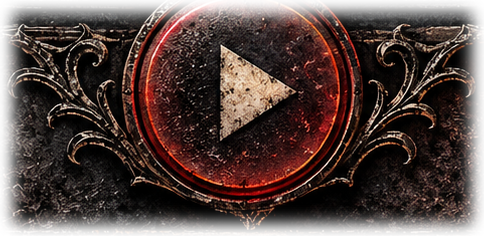
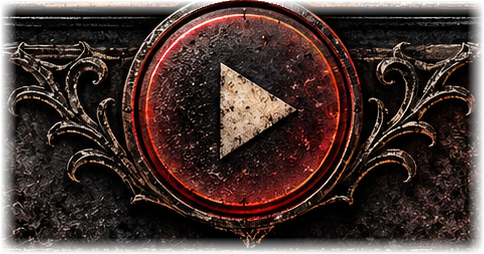
Metronome: all beat lamps visible; play/pause art match
- Beat lamps never scroll: one row up to 8 beats (lamps shrink to fit),
  two rows from 9 to 16 beats. The beat panel grows to 110 px; the
  metronome and side panels are 24 px shorter to make room.
- Play and pause now use the same taller crop of the art, so the top of
  the ring is fully visible on both (the old play art's top edge was
  faded, which looked like a shadow) and the pause bars sit centred.

Claude-Session: https://claude.ai/code/session_019kbSwfzUSfSZGY3kMuzNe5

diff --git a/lib/screens/metronome_screen.dart b/lib/screens/metronome_screen.dart
@@ -50,6 +50,31 @@ class _MetronomeScreenState extends State<MetronomeScreen> with SingleTickerProv
     if (mounted) setState(() {});
   }
 
+  Widget _beatRows(BuildContext context) {
+    final n = m.levels.length;
+    final (perRow, size) = _BeatRowsLayout.of(n);
+    Widget lamp(int i) => Padding(
+          padding: const EdgeInsets.symmetric(horizontal: 3),
+          child: _BeatLamp(
+            level: m.levels[i],
+            now: m.playing && m.beat == i,
+            index: i,
+            size: size,
+            onTap: () => m.cycleBeat(i),
+          ),
+        );
+    final rows = <Widget>[];
+    for (var start = 0; start < n; start += perRow) {
+      rows.add(Row(
+        mainAxisAlignment: MainAxisAlignment.center,
+        children: [for (var i = start; i < math.min(n, start + perRow); i++) lamp(i)],
+      ));
+    }
+    return Column(mainAxisSize: MainAxisSize.min, children: [
+      for (var r = 0; r < rows.length; r++) ...[if (r > 0) const SizedBox(height: 5), rows[r]],
+    ]);
+  }
+
   @override
   Widget build(BuildContext context) {
     final sig = timeSigs[m.sig];
@@ -123,7 +148,7 @@ class _MetronomeScreenState extends State<MetronomeScreen> with SingleTickerProv
         left: 6,
         top: 334,
         width: 96,
-        height: 248,
+        height: 224,
         child: Parchment(
           padding: const EdgeInsets.fromLTRB(0, 14, 0, 6),
           child: Column(children: [
@@ -160,7 +185,10 @@ class _MetronomeScreenState extends State<MetronomeScreen> with SingleTickerProv
         top: 334,
         width: 175,
         height: 250,
-        child: Stack(children: [
+        child: Transform.scale(
+          scale: 224 / 250,
+          alignment: Alignment.topCenter,
+          child: Stack(children: [
           Positioned.fill(child: Image.asset(Img.pyramid, fit: BoxFit.fill)),
           Positioned.fill(
             child: ClipPath(
@@ -187,6 +215,7 @@ class _MetronomeScreenState extends State<MetronomeScreen> with SingleTickerProv
             ),
           ),
         ]),
+        ),
       ),
 
       // Sound + subdivision.
@@ -194,51 +223,38 @@ class _MetronomeScreenState extends State<MetronomeScreen> with SingleTickerProv
         left: 288,
         top: 334,
         width: 96,
-        height: 248,
+        height: 224,
         child: Parchment(
-          padding: const EdgeInsets.symmetric(vertical: 12),
+          padding: const EdgeInsets.symmetric(vertical: 10),
           child: Column(children: [
             Text('Sound', style: T.ink(22)),
-            const SizedBox(height: 6),
-            _ImageButton(Img.speaker, 64, 'Click sound ${soundNames[m.sound]}. Tap for next sound.', m.nextSound),
+            const SizedBox(height: 4),
+            _ImageButton(Img.speaker, 56, 'Click sound ${soundNames[m.sound]}. Tap for next sound.', m.nextSound),
             const SizedBox(height: 6),
             Text(soundNames[m.sound],
                 textAlign: TextAlign.center, style: T.caps(12, color: C.ink, spacing: 0).copyWith(shadows: [])),
             Text('${m.sound + 1} of ${soundNames.length}',
                 style: T.caps(10, color: const Color(0xFF3A2A1C), spacing: 1).copyWith(shadows: [])),
-            const SizedBox(height: 10),
-            Text('Subdivide', style: T.ink(20)),
             const SizedBox(height: 6),
+            Text('Subdivide', style: T.ink(20)),
+            const SizedBox(height: 4),
             OvalButton.text(subdivisions[m.sub].$1, width: 66, height: 44, onTap: m.nextSub, semanticLabel: 'Subdivision'),
           ]),
         ),
       ),
 
-      // Beat accent lamps.
+      // Beat accent lamps: every beat always visible (one row up to 8, two rows above that).
       Positioned(
         left: 18,
-        top: 590,
+        top: 566,
         width: 354,
-        height: 86,
+        height: 110,
         child: RustPlate(
-          padding: const EdgeInsets.fromLTRB(10, 8, 10, 6),
+          padding: const EdgeInsets.fromLTRB(10, 6, 10, 6),
           child: Column(children: [
-            Text('Beat Accent · ${sig.groupLabel}', style: T.gothic(19)),
-            const SizedBox(height: 4),
-            Expanded(
-              child: Center(
-                child: SingleChildScrollView(
-                  scrollDirection: Axis.horizontal,
-                  child: Row(children: [
-                    for (var i = 0; i < m.levels.length; i++)
-                      Padding(
-                        padding: const EdgeInsets.symmetric(horizontal: 4),
-                        child: _BeatLamp(level: m.levels[i], now: m.playing && m.beat == i, index: i, onTap: () => m.cycleBeat(i)),
-                      ),
-                  ]),
-                ),
-              ),
-            ),
+            Text('Beat Accent · ${sig.groupLabel}', style: T.gothic(18)),
+            const SizedBox(height: 3),
+            Expanded(child: Center(child: _beatRows(context))),
           ]),
         ),
       ),
@@ -251,13 +267,16 @@ class _MetronomeScreenState extends State<MetronomeScreen> with SingleTickerProv
         height: 88,
         child: Stack(children: [
           Positioned(left: 6, top: 16, width: 108, height: 56, child: _ImageButton(Img.tap, 108, 'Tap tempo', m.tap, height: 45)),
-          Positioned(left: 105, top: 0, width: 180, height: 88, child: Image.asset(Img.playCenter, fit: BoxFit.fill)),
-          // While playing, cover the play disc with the same disc showing pause bars.
-          if (m.playing)
-            Positioned(left: 153.7, top: 0, width: 83.7, height: 79.8, child: Image.asset(Img.pauseDisc, fit: BoxFit.fill)),
+          Positioned(
+            left: 105,
+            top: -6.7,
+            width: 180,
+            height: 94.5,
+            child: Image.asset(m.playing ? Img.pauseCenter : Img.playCenter, fit: BoxFit.fill, gaplessPlayback: true),
+          ),
           Positioned(
             left: 155,
-            top: 0,
+            top: -5,
             width: 80,
             height: 80,
             child: Semantics(
@@ -274,6 +293,18 @@ class _MetronomeScreenState extends State<MetronomeScreen> with SingleTickerProv
         ]),
       ),
     ]);
+  }
+}
+
+class _BeatRowsLayout {
+  static (int perRow, double size) of(int n) {
+    // 330 px of room inside the plate; each lamp has 3 px of padding either side.
+    const width = 330.0, pad = 6.0;
+    final perRow = n <= 8 ? n : (n + 1) ~/ 2;
+    final rows = n <= 8 ? 1 : 2;
+    final fit = width / perRow - pad;
+    final size = math.min(rows == 1 ? 46.0 : 34.0, fit);
+    return (perRow, size);
   }
 }
 
@@ -300,7 +331,8 @@ class _ImageButton extends StatelessWidget {
 }
 
 class _BeatLamp extends StatelessWidget {
-  const _BeatLamp({required this.level, required this.now, required this.index, required this.onTap});
+  const _BeatLamp({required this.level, required this.now, required this.index, required this.onTap, this.size = 46});
+  final double size;
   final BeatLevel level;
   final bool now;
   final int index;
@@ -320,19 +352,19 @@ class _BeatLamp extends StatelessWidget {
       child: GestureDetector(
         onTap: onTap,
         child: Container(
-          width: 46,
-          height: 46,
+          width: size,
+          height: size,
           alignment: Alignment.center,
           decoration: BoxDecoration(
             shape: BoxShape.circle,
             color: const Color(0xFF0C0908),
-            border: Border.all(color: now ? C.gold : const Color(0xFF4A3426), width: 3),
+            border: Border.all(color: now ? C.gold : const Color(0xFF4A3426), width: size > 40 ? 3 : 2),
             boxShadow: [
               const BoxShadow(color: Color(0xCC000000), blurRadius: 4, offset: Offset(0, 2)),
               if (now) BoxShadow(color: C.gold.withOpacity(0.8), blurRadius: 12),
             ],
           ),
-          child: Lamp(color: color, size: 28, glow: glow),
+          child: Lamp(color: color, size: size * 0.6, glow: glow),
         ),
       ),
     );

diff --git a/lib/ui/style.dart b/lib/ui/style.dart
@@ -37,7 +37,7 @@ class Img {
   static const tap = '${_p}tap.png';
   static const reset = '${_p}reset.png';
   static const playCenter = '${_p}playcenter.png';
-  static const pauseDisc = '${_p}pausedisc.png';
+  static const pauseCenter = '${_p}pausecenter.png';
   static const gauge = '${_p}gauge.png';
   static const headBody = '${_p}headbody.png';
   static const peg = '${_p}peg.png';
